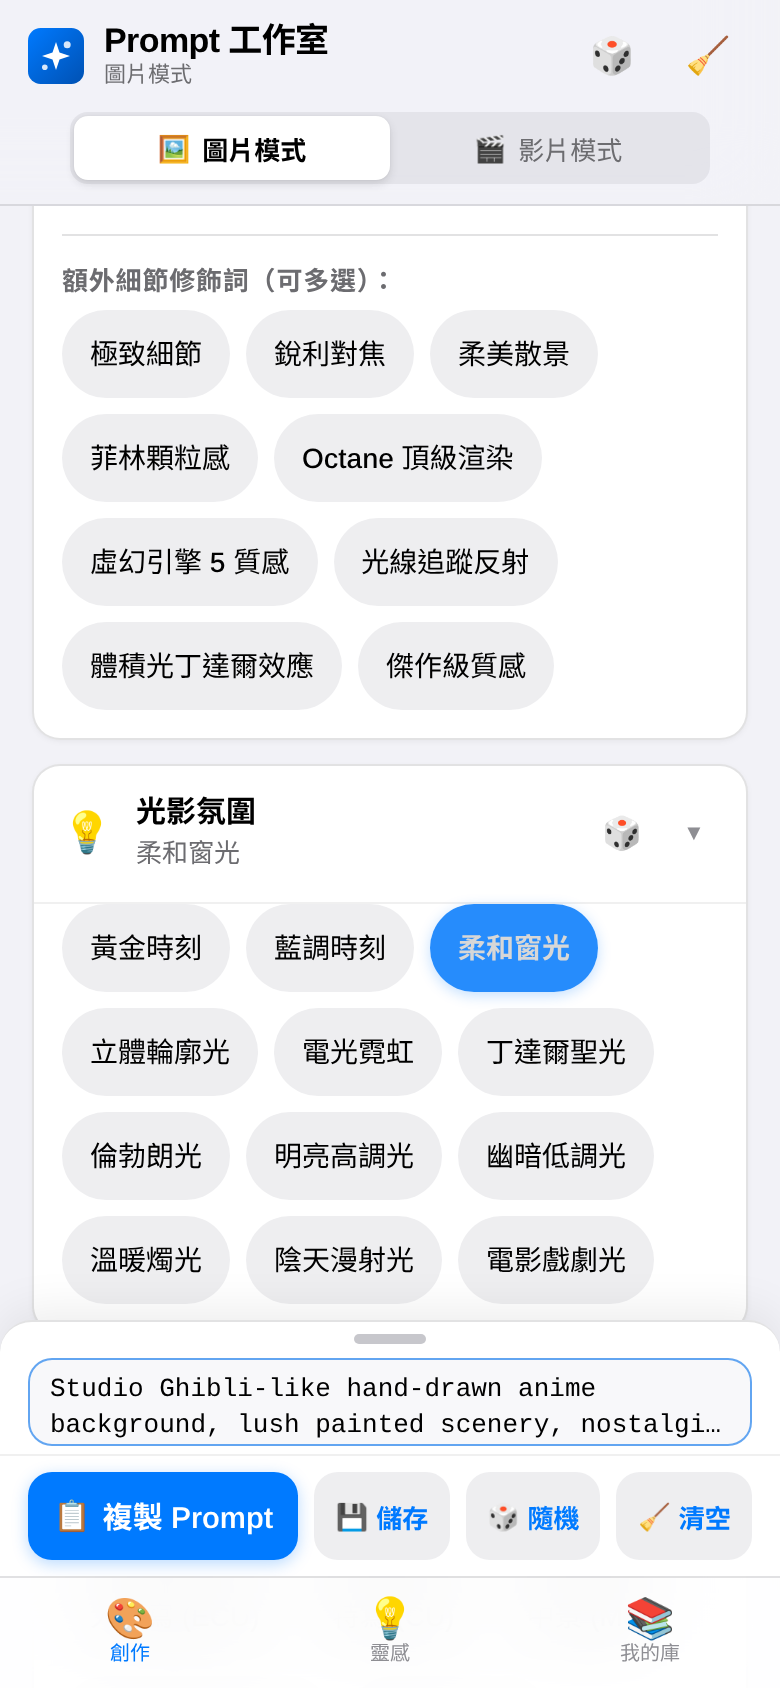
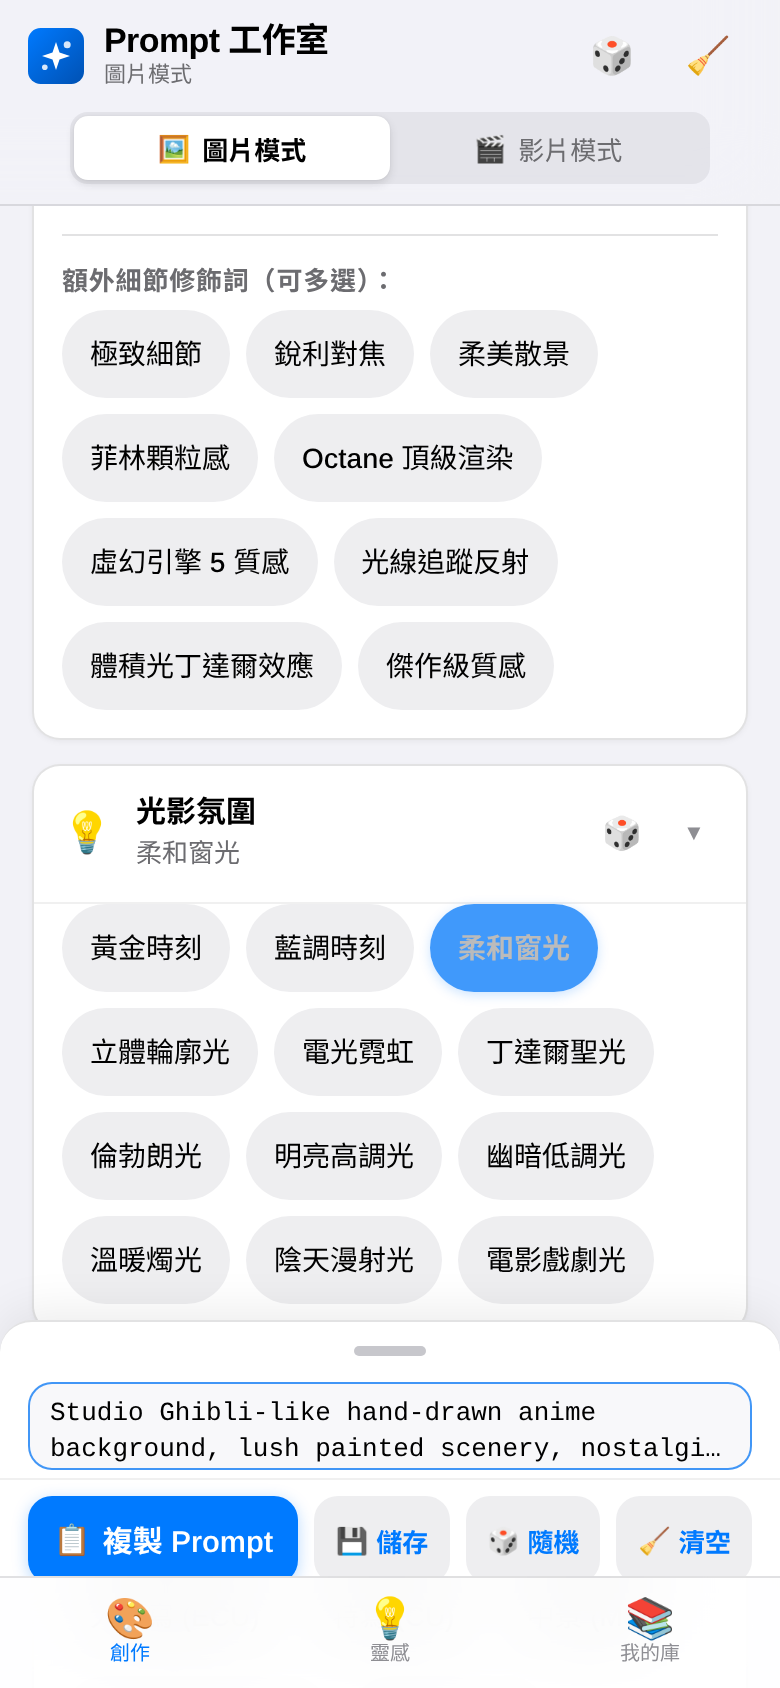
prompt-studio: fix integrated prompt sheet not expanding on iPhone (tap/swipe, full scroll)

diff --git a/projects/prompt-studio/js/app.js b/projects/prompt-studio/js/app.js
@@ -877,10 +877,10 @@
     el.explanationDisplay.textContent = explanationText;
 
     if (negativeText) {
-      el.detailsNegative.style.display = "block";
+      el.detailsNegative.hidden = false;
       el.negativeDisplay.textContent = negativeText;
     } else {
-      el.detailsNegative.style.display = "none";
+      el.detailsNegative.hidden = true;
     }
 
     // Subtle highlight pulse
@@ -1500,12 +1500,40 @@
     });
 
     // Sticky sheet controls
+    function setSheetExpanded(open) {
+      el.promptSheet.classList.toggle("expanded", open);
+      document.body.classList.toggle("sheet-expanded", open);
+      el.sheetDragHandle.setAttribute("aria-expanded", String(open));
+      el.btnToggleSheet.setAttribute("aria-expanded", String(open));
+      if (!open) el.sheetBody.scrollTop = 0;
+    }
+    function toggleSheet() {
+      setSheetExpanded(!el.promptSheet.classList.contains("expanded"));
+    }
+    el.sheetBody = el.sheetBody || document.getElementById("sheetBody");
     el.sheetDragHandle.addEventListener("click", toggleSheet);
     el.btnToggleSheet.addEventListener("click", toggleSheet);
-
-    function toggleSheet() {
-      el.promptSheet.classList.toggle("expanded");
-    }
+    // Tapping the collapsed prompt preview expands it
+    el.promptDisplay.addEventListener("click", () => {
+      if (!el.promptSheet.classList.contains("expanded")) setSheetExpanded(true);
+    });
+    // Swipe up / down on the handle (or the collapsed sheet) to expand / collapse
+    let swipeStartY = null, swipeFromBodyTop = false;
+    el.promptSheet.addEventListener("touchstart", (e) => {
+      if (e.touches.length !== 1) return;
+      const onHandle = el.sheetDragHandle.contains(e.target);
+      const expanded = el.promptSheet.classList.contains("expanded");
+      // In expanded mode only the handle/header starts a swipe, so the body can scroll
+      if (expanded && !onHandle && !e.target.closest(".sheet-header")) { swipeStartY = null; return; }
+      swipeStartY = e.touches[0].clientY;
+    }, { passive: true });
+    el.promptSheet.addEventListener("touchend", (e) => {
+      if (swipeStartY === null) return;
+      const dy = e.changedTouches[0].clientY - swipeStartY;
+      swipeStartY = null;
+      if (dy < -30) setSheetExpanded(true);
+      else if (dy > 30) setSheetExpanded(false);
+    }, { passive: true });
 
     // Sheet copy buttons
     el.btnCopyPrompt.addEventListener("click", () => {

diff --git a/projects/prompt-studio/css/style.css b/projects/prompt-studio/css/style.css
@@ -1018,8 +1018,10 @@ button {
 }
 
 .prompt-sheet.expanded {
-  max-height: 75vh;
+  max-height: calc(100vh - var(--tab-bar-height) - env(safe-area-inset-bottom, 0px) - 70px);
+  max-height: calc(100dvh - var(--tab-bar-height) - env(safe-area-inset-bottom, 0px) - 70px);
 }
+.negative-details[hidden] { display: none !important; }
 
 /* Hide prompt composer sheet on non-builder tabs */
 [data-active-tab="tab-recipes"] .prompt-sheet,
@@ -1042,7 +1044,9 @@ body.keyboard-open .bottom-tab-bar {
 
 .sheet-drag-handle {
   width: 100%;
-  height: 16px;
+  height: 28px;
+  touch-action: none;
+  -webkit-tap-highlight-color: transparent;
   display: flex;
   align-items: center;
   justify-content: center;
@@ -1069,7 +1073,7 @@ body.keyboard-open .bottom-tab-bar {
 
 .prompt-sheet:not(.expanded) .explanation-details,
 .prompt-sheet:not(.expanded) .negative-details {
-  display: none;
+  display: none !important;
 }
 
 .prompt-sheet:not(.expanded) .sheet-body {
@@ -1089,6 +1093,9 @@ body.keyboard-open .bottom-tab-bar {
   font-size: 13px;
   line-height: 1.35;
   min-height: unset;
+  cursor: pointer;
+  user-select: none;
+  -webkit-user-select: none;
 }
 
 /* Expanded state header */
@@ -1219,8 +1226,15 @@ body.keyboard-open .bottom-tab-bar {
 }
 
 .prompt-sheet.expanded .prompt-display-card {
-  max-height: 180px;
-  overflow-y: auto;
+  max-height: none;
+  overflow: visible;
+}
+.prompt-sheet.expanded .sheet-body > * { flex-shrink: 0; }
+body.sheet-expanded .gb-back { opacity: 0; pointer-events: none; }
+.prompt-sheet.expanded .sheet-body {
+  flex: 1 1 auto;
+  min-height: 0;
+  overscroll-behavior: contain;
 }
 
 .prompt-display-card.pulse {

diff --git a/projects/prompt-studio/index.html b/projects/prompt-studio/index.html
@@ -18,7 +18,7 @@
   <link rel="manifest" href="manifest.webmanifest">
 
   <!-- Stylesheet -->
-  <link rel="stylesheet" href="css/style.css">
+  <link rel="stylesheet" href="css/style.css?v=4">
 </head>
 <body>
   <!-- App Container -->
@@ -669,7 +669,7 @@
   <script src="js/data.js"></script>
   <script src="js/prompt.js"></script>
   <script src="js/store.js"></script>
-  <script src="js/app.js"></script>
+  <script src="js/app.js?v=4"></script>
 <script src="../_shared/back.js" defer></script>
 </body>
 </html>

diff --git a/projects/prompt-studio/sw.js b/projects/prompt-studio/sw.js
@@ -1,9 +1,9 @@
 /**
  * sw.js - Service Worker for Prompt Studio offline app shell caching.
- * Version: prompt-studio-v3
+ * Version: prompt-studio-v4
  */
 
-const CACHE_NAME = "prompt-studio-v3";
+const CACHE_NAME = "prompt-studio-v4";
 
 const APP_SHELL_FILES = [
   "./index.html",
